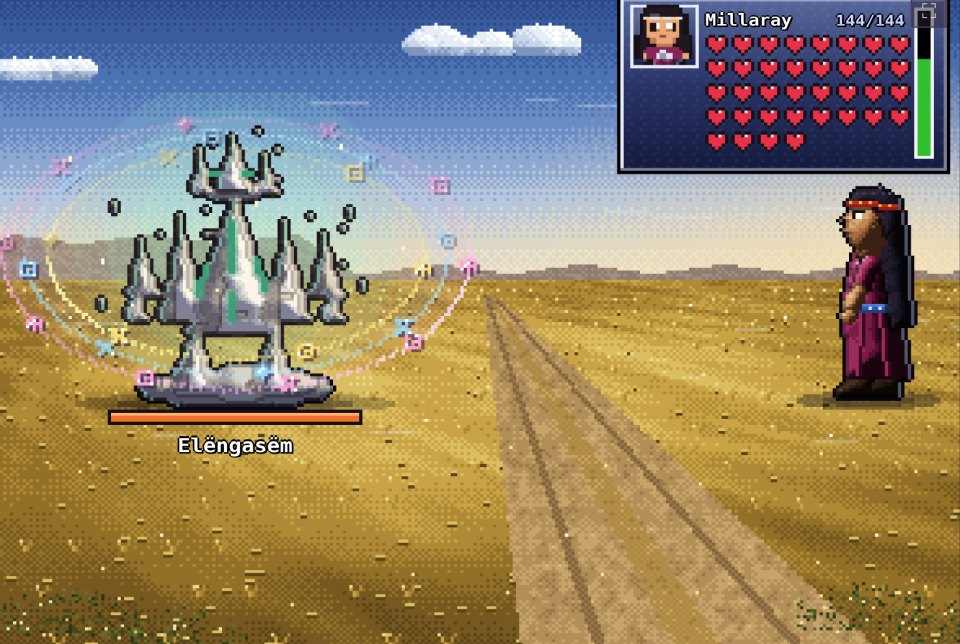
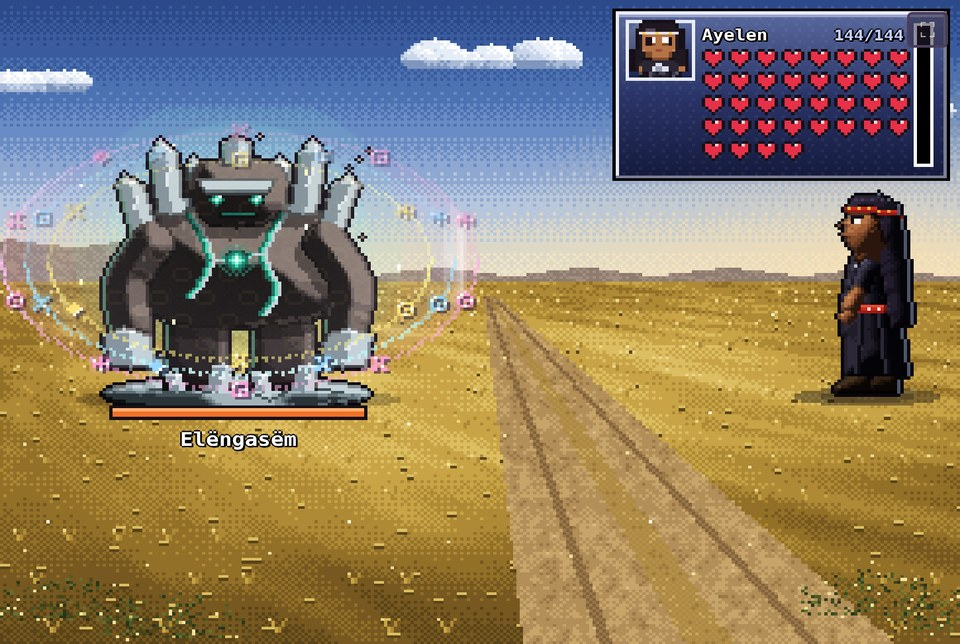
About page: new boss screenshot with the hand-painted art; hand-painted bosses and painted scenes in the text
Claude-Session: https://claude.ai/code/session_01HTUZe9QnhKfmVdpEdFr6Jn

diff --git a/acerca/index.html b/acerca/index.html
@@ -192,6 +192,8 @@ footer{padding-block:28px 40px;color:var(--muted);font-size:.9rem;display:flex;f
           <ul>
             <li><span class="es"><b>El trariwe antiguo:</b> cada jefe de región suelta un trokiñ; completo, abre el camino al final.</span><span class="en"><b>The ancient trariwe:</b> each region's boss drops a trokiñ; complete, it opens the way to the finale.</span></li>
             <li><span class="es"><b>Kultrun y metal:</b> cada jefe pelea con su propio tema, guitarras pesadas sobre el pulso del kultrun, con kaskawilla, trutruka y pifilka.</span><span class="en"><b>Kultrun and metal:</b> every boss fights to its own theme, heavy guitars over the pulse of the kultrun, with kaskawilla, trutruka and pifilka.</span></li>
+            <li><span class="es"><b>Jefes pintados a mano:</b> cada jefe, del Trelke-wekufü a las cinco formas del gran olvido, está pintado uno por uno, con su propia luz, sombra y textura.</span><span class="en"><b>Hand-painted bosses:</b> every boss, from the Trelke-wekufü to the five forms of the great forgetting, is painted one by one, with its own light, shadow and texture.</span></li>
+            <li><span class="es"><b>Escenas pintadas:</b> la apertura y el final se cuentan sobre paisajes pintados como los de combate: el lago bajo el volcán al amanecer y al atardecer, y Santiago de noche frente a la cordillera.</span><span class="en"><b>Painted scenes:</b> the opening and the ending play out over landscapes painted like the battle backdrops: the lake under the volcano at dawn and dusk, and Santiago at night against the cordillera.</span></li>
           </ul>
         </div>
       </div>
@@ -213,7 +215,7 @@ footer{padding-block:28px 40px;color:var(--muted);font-size:.9rem;display:flex;f
       </div>
 
       <div class="feat">
-        <div class="shot"><img src="img/boss.jpg" alt="Un jefe secreto de sal en el salitral, rodeado de barreras de luz" width="960" height="644" loading="lazy"></div>
+        <div class="shot"><img src="img/boss.jpg?v=2" alt="Ayelen frente a Elëngasëm, un gigante de piedra y sal pintado a mano, rodeado de barreras de luz en la pampa" width="960" height="644" loading="lazy"></div>
         <div class="copy">
           <h3><span class="es">Y más allá de la niebla...</span><span class="en">And beyond the fog...</span></h3>
           <p class="muted"><span class="es">Despertados los cinco ngen, queda lo que la niebla esconde: Ti Fütra Ngoymatulfe, el gran olvido. Jefes secretos que se encuentran explorando, barreras de luz que solo la gramática rompe, un final en varias etapas que cierra con su propia película, <span class="mapu">Kelluaeyu</span>, y, para quien busca de verdad, regiones enteras que no aparecen en ningún mapa. No contamos más. Y al terminar, el modo <span class="mapu">weichafe</span>: vuelves a empezar con tu kimün y tus cosas, contra wekufü que crecen contigo y pruebas sin pistas.</span><span class="en">Once the five ngen are awake, what the fog hides remains: Ti Fütra Ngoymatulfe, the great forgetting. Secret bosses found by exploring, light barriers only grammar can break, a multi-stage finale that closes with its own film, <span class="mapu">Kelluaeyu</span>, and, for those who truly search, whole regions that appear on no map. We'll say no more. And once you finish, <span class="mapu">weichafe</span> mode: start again with your kimün and your things, against wekufü that grow with you and trials with no hints.</span></p>
